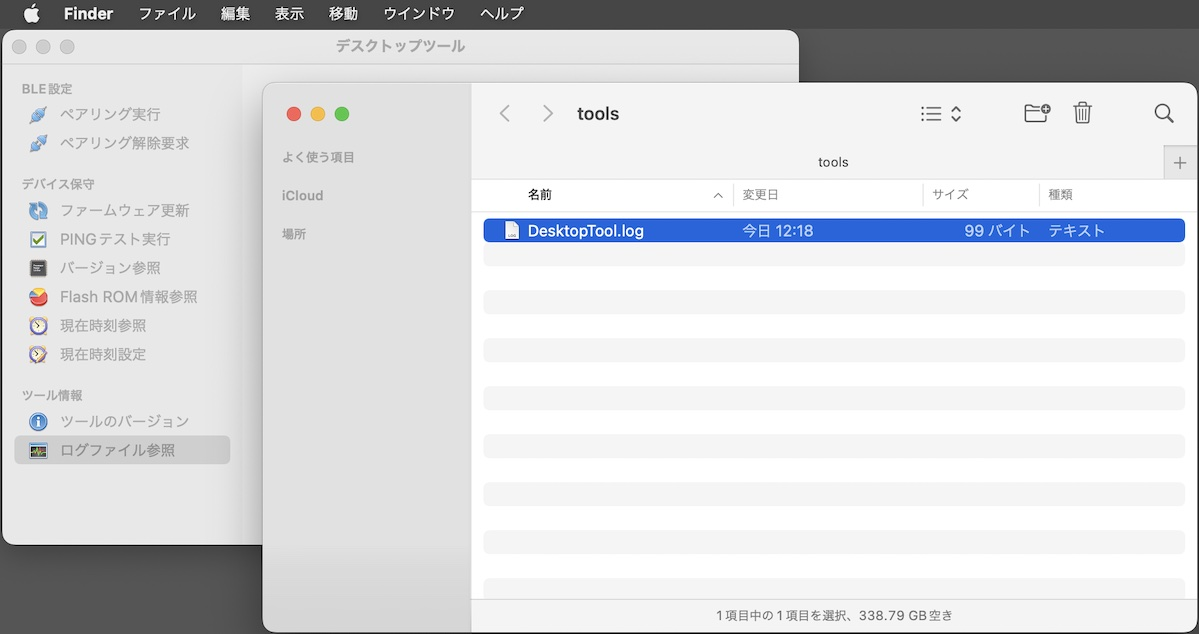
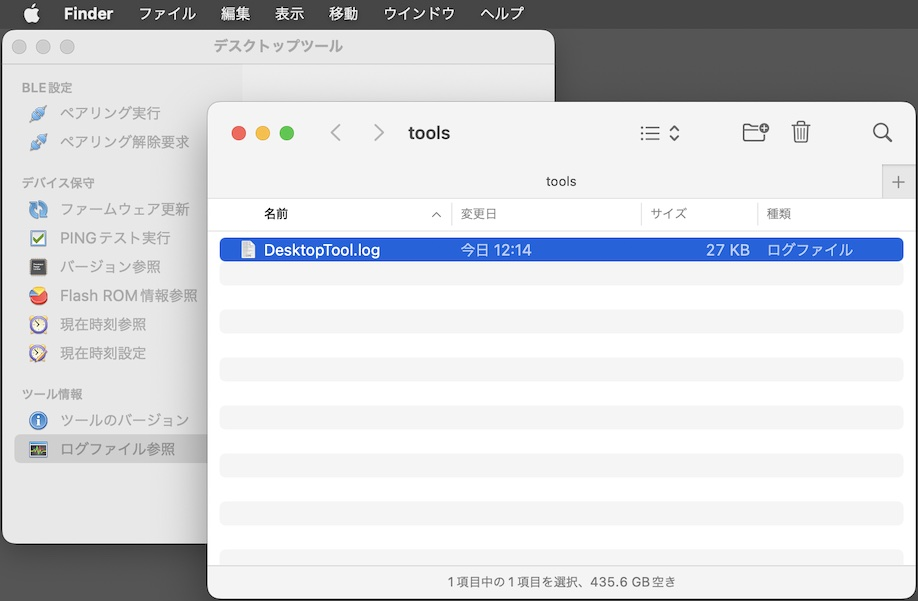
ドキュメントを更新
・画面コピーを差替え

diff --git a/Markdowns/DesktopTools/macOSApp/VIEWLOG.md b/Markdowns/DesktopTools/macOSApp/VIEWLOG.md
@@ -16,11 +16,11 @@
 ログファイルの格納場所を、macOSのFinderで開くことができます。<br>
 デスクトップツールを起動し「ログファイル参照」ボタンをクリックします。
 
-<img src="images/VIEWLOG_01.jpg" width="400">
+<img src="images/VIEWLOG_01.jpg" width="280">
 
 ログファイル`DesktopTool.log`を格納するディレクトリーが、macOSのFinderで表示されます。
 
-<img src="images/VIEWLOG_02.jpg" width="600">
+<img src="images/VIEWLOG_02.jpg" width="465">
 
 ログファイルは通常のテキストファイルですので、適宜、テキストエディターにより内容を参照することが可能です。
 
